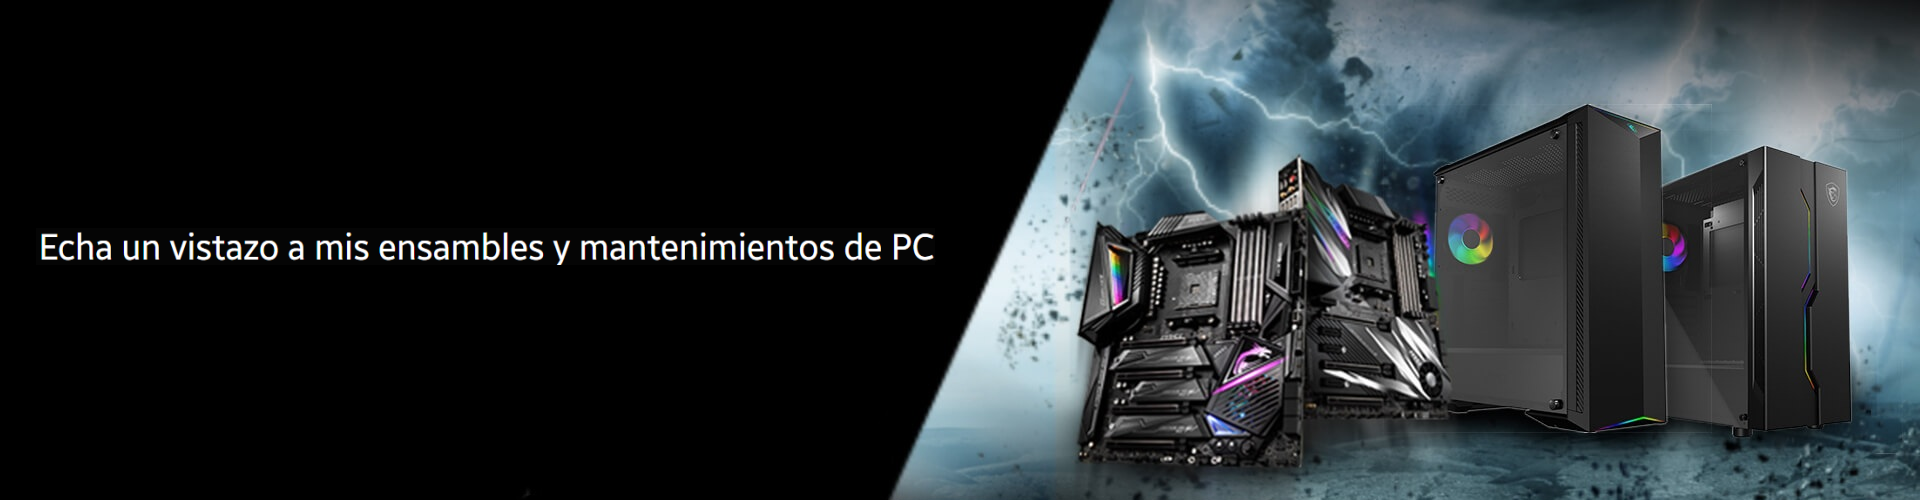
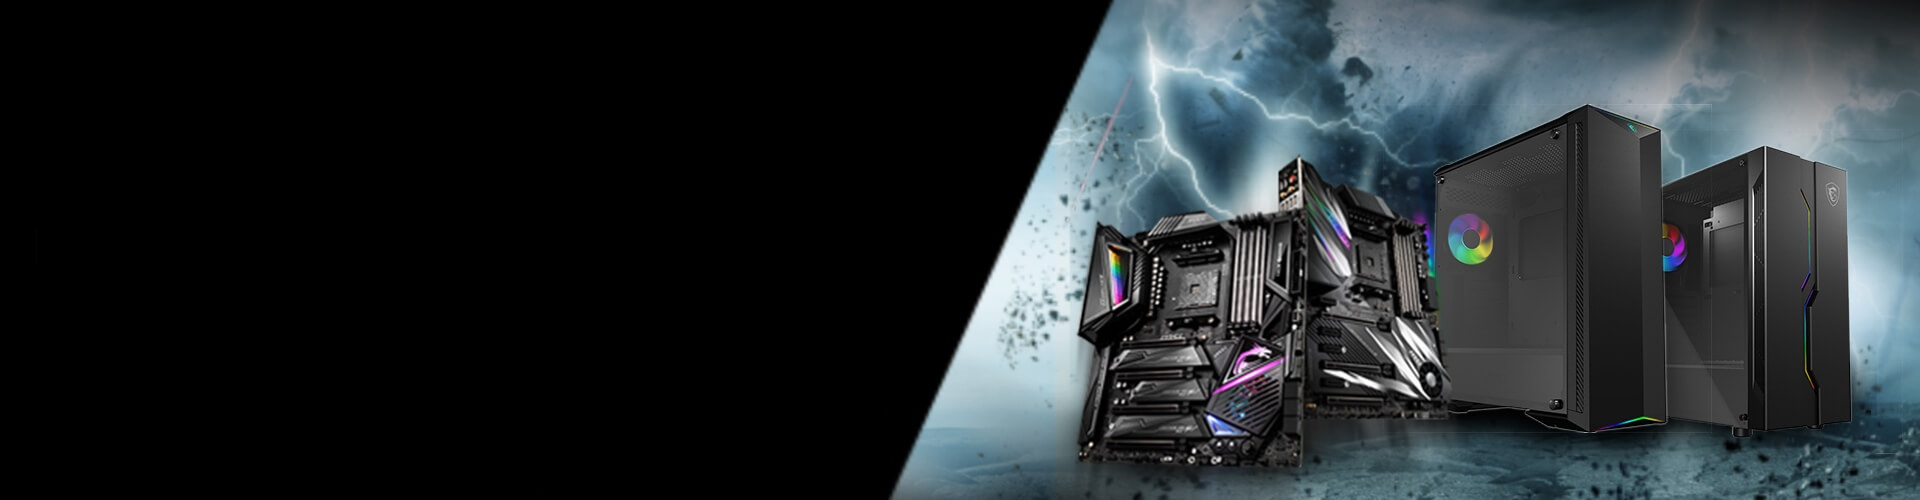
updates

Changed region(s): [[0.0, 0.45, 0.5, 0.54]]

diff --git a/index.html b/index.html
@@ -93,7 +93,7 @@
                     <div class="col-10 col-md-6">
                         <div class="row">
                             <div class="col-12">
-                                <p>Le ponemos mucha actitud a cada ensamble que hacemos⚡⚡⚡</p>
+                                <p>Echa un vistazo a mis ensamblados y mantenimientos de PC⚡⚡⚡</p>
                                 <p>⚡¡Siempre dispuesto a tener gente que ayude a progresar
                                     con ideas y sugerencias! Gracias.
                                 <p>¡Los ensambles y mantenimientos están llenos de energía y actitud! 🔥</p>
